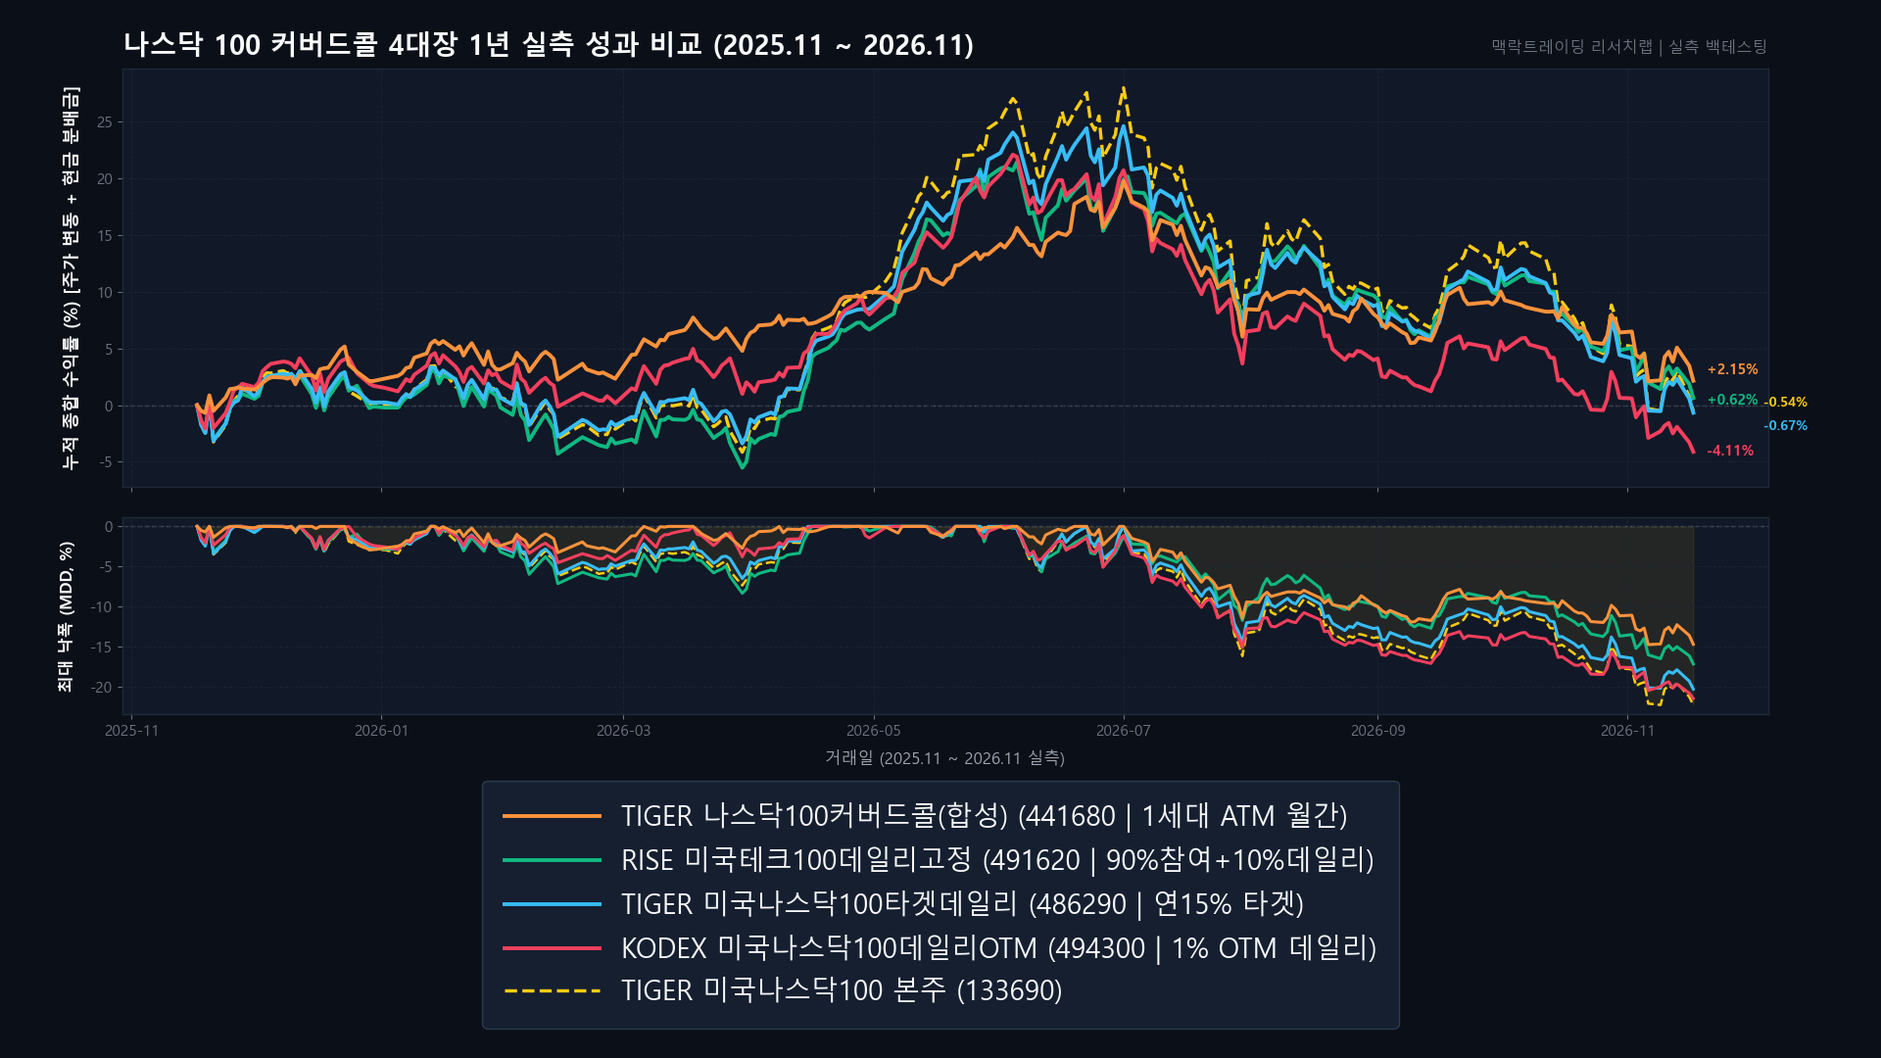
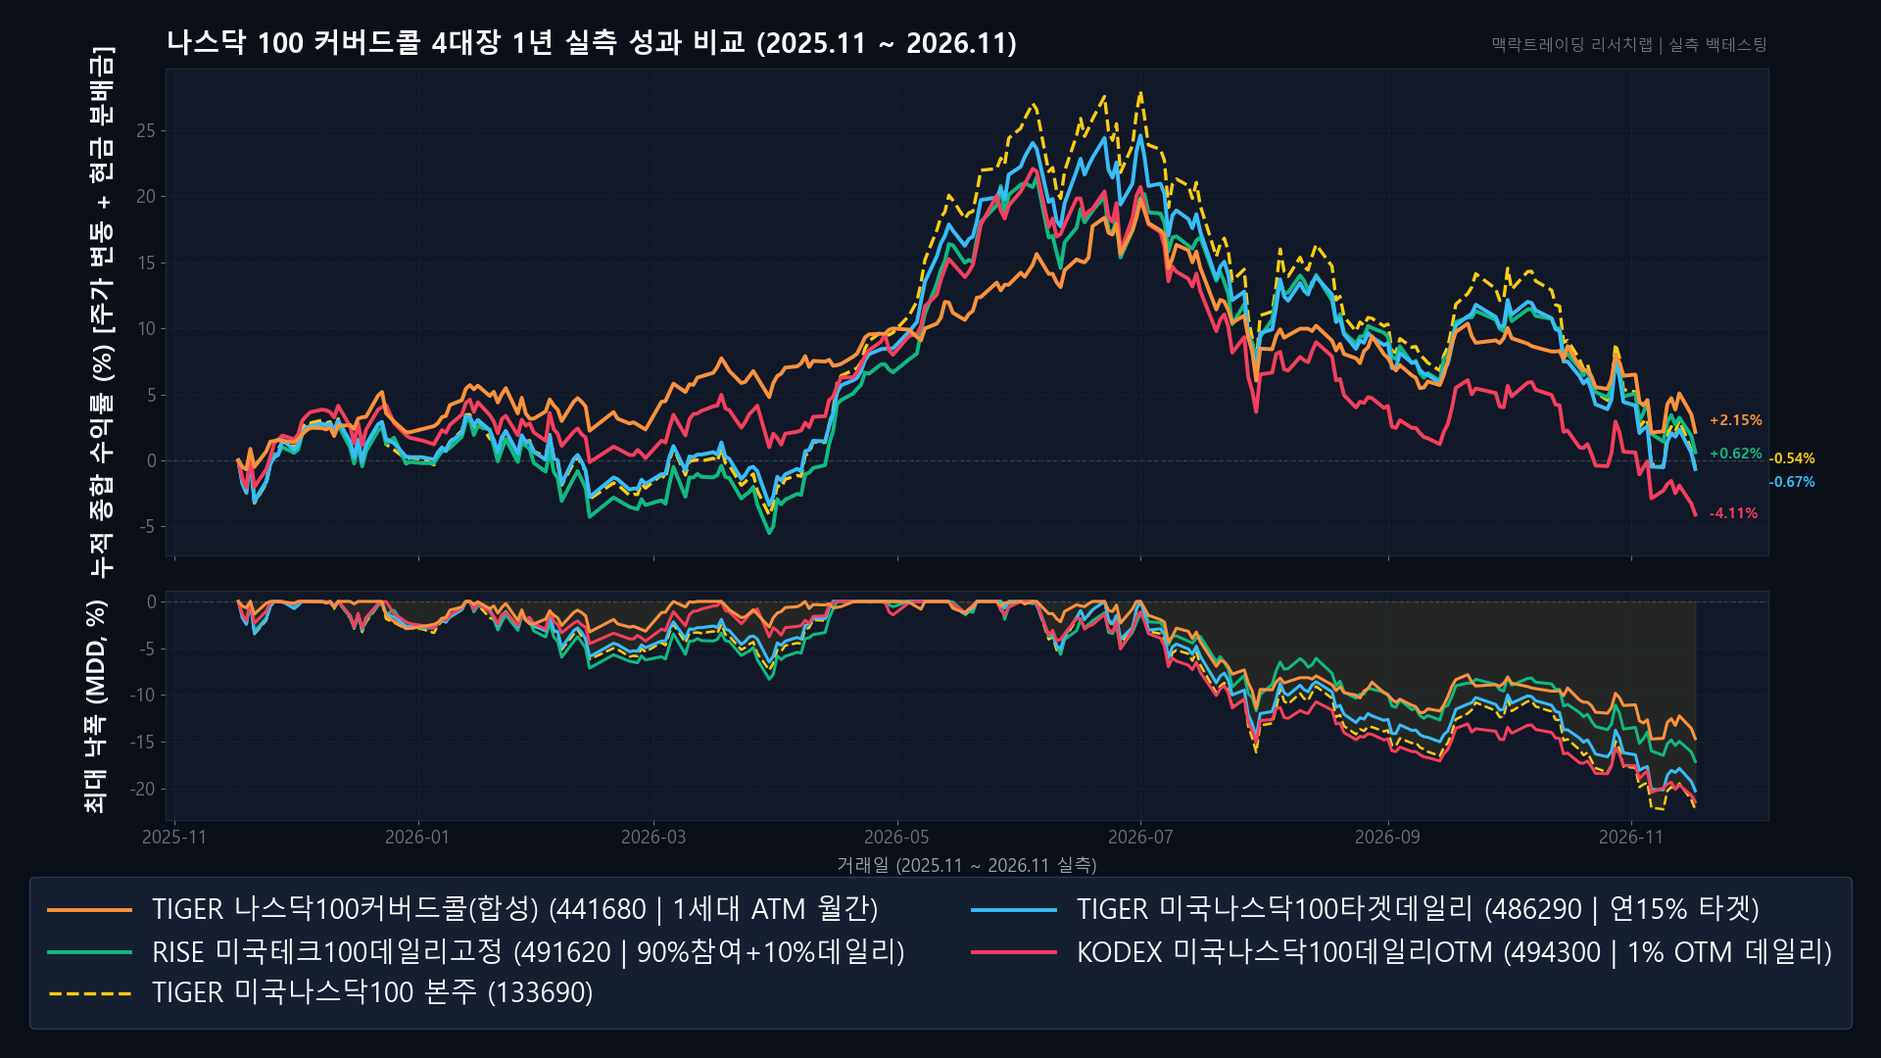
feat(post & chart): add reinvestment comparison set, unify graph/table section, apply 3-row legend and enlarged y-labels

diff --git a/_posts/2026-11-18-group01-nasdaq100-covered-call-comparison.md b/_posts/2026-11-18-group01-nasdaq100-covered-call-comparison.md
@@ -6,10 +6,10 @@ category: '커버드콜 분석'
 categories: ['커버드콜 분석']
 tags: [커버드콜, 나스닥100, TIGER미국나스닥100타겟데일리, KODEX미국나스닥100데일리OTM, RISE미국테크100데일리고정, TIGER미국나스닥100커버드콜, 월배당, 백테스팅, 배당투자, 맥락트레이딩]
 author: '맥락트레이딩 리서치팀'
-excerpt: '국내 상장 나스닥 100 초고배당 커버드콜 4종의 1년 및 2년 실측 토탈리턴, 배당락 주가 침식률, 분배금 원금 상쇄력을 1:1 정밀 비교 분석합니다.'
+excerpt: '국내 상장 나스닥 100 초고배당 커버드콜 4종의 1년 실측 토탈리턴, 단순 보유(현금 수령) vs 분배금 전액 재투자 복리 성과, 배당락 주가 침식률을 1:1 정밀 비교 분석합니다.'
 ---
 
-미국 나스닥 100 지수를 기초자산으로 삼으면서 연 12%에서 최대 19%에 달하는 초고배당을 지급하는 커버드콜 ETF들은 국내 개인 투자자들의 월배당 포트폴리오에서 가장 큰 비중(순자산 합산 약 4조 3천억 원)을 차지하고 있습니다. 하지만 데일리 타겟 15%, 1% 외가격(OTM) 데일리, 90% 참여형 데일리고정, 전통 월간 ATM(등가격) 매도 등 상품마다 내부 옵션 설계 구조가 완전히 다릅니다. 최근 1년간의 실측 백테스팅 데이터를 통해 상승장 참여율 격차와 원금 잠식 실체를 객관적으로 대조해 보았습니다.
+미국 나스닥 100 지수를 기초자산으로 삼으면서 연 12%에서 최대 19%에 달하는 초고배당을 지급하는 커버드콜 ETF들은 국내 개인 투자자들의 월배당 포트폴리오에서 가장 큰 비중(순자산 합산 약 4조 3천억 원)을 차지하고 있습니다. 하지만 데일리 타겟 15%, 1% 외가격(OTM) 데일리, 90% 참여형 데일리고정, 전통 월간 ATM(등가격) 매도 등 상품마다 내부 옵션 설계 구조가 완전히 다릅니다. 최근 1년간의 실측 백테스팅 데이터를 통해 상승장 참여율 격차와 원금 잠식 실체, 그리고 **현금 수령(단순 보유) vs 분배금 전액 재투자(복리 롤링)**의 결정적 차이를 객관적으로 대조해 보았습니다.
 
 ## 1. ETF 기본 정보
 
@@ -32,19 +32,21 @@ excerpt: '국내 상장 나스닥 100 초고배당 커버드콜 4종의 1년 및
 
 ---
 
-## 2. 성과 그래프
+## 2. 1년 실측 성과 비교 분석 (그래프 & 요약 테이블)
 
-![나스닥 100 커버드콜 4대장 1년 실측 성과 비교 차트](/assets/img/posts/group01_nasdaq100_covered_call_comparison_v2.png)
-
-> 💡 **차트 확인 포인트**: 상단 그래프의 실선들은 순수 주가에 실제로 계좌로 입금된 현금 분배금을 모두 합산한 '총자산(Hold Total Return)' 추이입니다. 나스닥 본주가 연간 -0.54%로 횡보한 진폭 장세에서 옵션 구조별로 최종 수익률이 어떻게 엇갈렸는지 확인할 수 있습니다.
-
----
-
-## 3. 성과 요약 테이블
+투자자가 월배당 커버드콜을 운용할 때 마주하는 가장 근본적인 두 가지 방식—**① 분배금을 현금으로 인출하여 보유하는 경우(Hold)**와 **② 분배금을 단 1원도 인출하지 않고 지급 당일 전액 주식으로 재매수하는 경우(Reinvest)**—를 1:1 맞대결로 실측하였습니다.
 
 - **분석 기간**: 2025-11-17 ~ 2026-11-17 (1Y, 245거래일 동기화 실측)
 - **초기 투자 원금**: 10,000,000원
 - **적용 배당소득세율**: 0.0% (비과세/절세계좌 기준)
+
+### ① [세트 1] 단순 보유(Hold) 실측 성과: 주가 변동 + 현금 분배금 수령
+
+첫 번째 세트는 투자자가 매월 통장에 입금된 분배금을 현금으로 수취하여 보관하고, 주가 평가액과 현금 누적액을 합산하여 최종 총자산을 측정한 실측 결과입니다.
+
+![나스닥 100 커버드콜 4대장 1년 실측 성과 비교 차트 (단순 보유)](/assets/img/posts/group01_nasdaq100_covered_call_comparison_v2.png)
+
+> 💡 **단순 보유 차트 포인트**: 상단 그래프의 실선들은 순수 주가에 실제로 계좌로 입금된 현금 분배금을 모두 합산한 '총자산(Hold Total Return)' 추이입니다. 나스닥 본주가 연간 -0.54%로 횡보한 진폭 장세에서 두터운 외재가치 프리미엄을 현금으로 챙긴 상품들이 원금 방어력을 발휘했습니다.
 
 | 전략 / 종목명 | 초기 원금 | 최종 주식<br>평가액 | 순수 주가<br>변동률 | 누적 수령 분배금<br>(현금) | 최종 총자산<br>(Hold 기준) | 최종 종합 수익률<br>(Total Return) | CAGR<br>(연평균 복리) | MDD<br>(최대 낙폭) | 샤프 지수<br>(Sharpe) |
 |:---|---:|---:|---:|---:|---:|---:|---:|---:|---:|
@@ -56,19 +58,37 @@ excerpt: '국내 상장 나스닥 100 초고배당 커버드콜 4종의 1년 및
 
 ---
 
-## 4. 심층 성과 분석 및 구조 해부
+### ② [세트 2] 분배금 재투자(Reinvest) 실측 성과: 전액 재투자 복리 롤링
+
+두 번째 세트는 수령한 모든 분배금을 인출하지 않고, 분배금 지급 당일 종가로 해당 커버드콜 주식을 즉시 추가 매수하여 보유 주식 수량을 늘려나가는 복리 재투자(Total Return) 시뮬레이션 결과입니다.
+
+![나스닥 100 커버드콜 4대장 분배금 재투자 복리 성과 비교 차트](/assets/img/posts/group01_nasdaq100_reinvest_comparison_v2.png)
+
+> 💡 **재투자 차트 포인트**: 분배금을 해당 ETF에 기계적으로 재투자했을 때의 실측 누적 자산 곡선입니다. 주가가 횡보·하락하는 국면에서는 배당락 침식이 누적된 주식을 재매수하게 되면서 '물타기 자금'마저 추가 하락에 노출되어, 단순 현금 보유보다 종합 수익률이 하락하는 **역복리 드래그(Reverse Compounding Drag)** 현상이 발생합니다.
+
+| 전략 / 종목명 | 초기 원금 | 최종 총자산<br>(재투자 기준) | 최종 종합 수익률<br>(Total Return) | CAGR<br>(연평균 복리) | MDD<br>(최대 낙폭) | 샤프 지수<br>(Sharpe) | 단순 보유 대비<br>수익률 격차 |
+|:---|---:|---:|---:|---:|---:|---:|:---:|
+| **TIGER 미국나스닥100커버드콜(합성) (441680)** | 10,000,000원 | 10,148,896원 | **+1.49%** | +1.49% | -16.05% | -0.04 | -0.66%p |
+| **RISE 미국테크100데일리고정 (491620)** | 10,000,000원 | 9,924,858원 | **-0.75%** | -0.75% | -19.72% | -0.10 | -1.37%p |
+| **TIGER 미국나스닥100타겟데일리 (486290)** | 10,000,000원 | 9,812,176원 | **-1.88%** | -1.88% | -22.49% | -0.16 | -1.21%p |
+| **KODEX 미국나스닥100데일리OTM (494300)** | 10,000,000원 | 9,368,569원 | **-6.31%** | -6.32% | -24.57% | -0.45 | **-2.20%p** |
+| <strong style="color: #F59E0B;">비교 대상 본주 (TIGER 미국나스닥100, 133690)</strong> | 10,000,000원 | 9,945,607원 | **-0.54%** | -0.54% | -22.29% | -0.08 | 0.00%p |
+
+---
+
+## 3. 심층 성과 분석 및 옵션 구조 해부
 
 ### ① 1세대 ATM 월간 커버드콜(441680)의 횡보장 완충력과 장기 랠리 페널티
-지난 1년간 실측 결과에서 가장 돋보이는 대목은 순수 100% ATM(등가격) 매도 방식을 취하는 1세대 TIGER 미국나스닥100커버드콜(합성)이 **+2.15%**로 4개 종목 중 가장 높은 종합 수익률을 기록했다는 사실입니다. 
+지난 1년간 실측 결과에서 가장 돋보이는 대목은 순수 100% ATM(등가격) 매도 방식을 취하는 1세대 TIGER 미국나스닥100커버드콜(합성)이 단순 보유 기준 **+2.15%**, 재투자 기준에서도 **+1.49%**로 4개 종목 중 유일하게 두 방식 모두에서 플러스 수익률을 사수했다는 사실입니다. 
 
-나스닥 100 본주가 -0.54%로 소폭 하락하며 방향성 없이 출렁인 횡보 국면에서, 등가격 옵션의 두터운 외재가치 프리미엄이 주가 하락 시 완충재 역할을 충실히 수행했습니다. 배당락에 따른 순수 주가 하락폭도 **-10.11%**에 그쳐 다른 데일리 커버드콜 상품들(-15%~-23%)보다 주가 방어력이 우수했으며, 최대 낙폭(MDD) 역시 **-14.74%**로 본주(-22.29%) 대비 7.55%p 낮은 변동성을 나타냈습니다.
+나스닥 100 본주가 -0.54%로 소폭 하락하며 방향성 없이 출렁인 횡보 국면에서, 등가격 옵션의 두터운 외재가치 프리미엄이 주가 하락 시 완충재 역할을 충실히 수행했습니다. 배당락에 따른 순수 주가 하락폭도 **-10.11%**에 그쳐 다른 데일리 커버드콜 상품들(-15%~-23%)보다 주가 방어력이 우수했으며, 최대 낙폭(MDD) 역시 **-14.74%**(재투자 시 -16.05%)로 본주(-22.29%) 대비 현저히 낮은 변동성을 나타냈습니다.
 
 하지만 이 결과를 두고 1세대 ATM 커버드콜이 모든 국면에서 우월하다고 해석하는 것은 구조적 착시입니다. 공통 상장일(2024년 10월 22일)부터 2026년 11월 17일까지 약 2년간의 누적 성과를 넓혀보면, 나스닥 100 본주가 **+30.58%** 급등하는 랠리 국면에서 441680의 누적 수익률은 **+16.41%**에 그쳤습니다. 매월 초 상방이 0%로 잠기는 구조 탓에 지수 폭등 시 자본 차익을 흡수하지 못하는 '상방 캡(Cap) 페널티'가 장기 계좌 수익률을 절반 가까이 깎아내린 셈입니다.
 
 ### ② 90% 참여형 데일리고정(491620)의 균형 잡힌 주가 복원력과 랠리 적응력
 RISE 미국테크100데일리고정커버드콜은 자산의 90%를 나스닥 100 지수에 노출하고 나머지 10% 비중으로만 데일리 콜옵션을 매도하는 차별화된 설계를 취하고 있습니다.
 
-1년 실측 데이터에서 이 상품은 **1,909,414원(19.09%)**이라는 최상위권의 현금 분배금을 투자자 통장에 안겨주면서도 종합 수익률 **+0.62%**를 달성하여 본주(-0.54%)를 앞질렀습니다. 90%의 주가 참여율 덕분에 지수 반등 국면에서 상방 캡에 덜 묶였으며, 배당락 주가 하락(-18.47%)을 풍부한 분배금(19.09%)이 온전히 방어했습니다.
+1년 단순 보유 실측 데이터에서 이 상품은 **1,909,414원(19.09%)**이라는 최상위권의 현금 분배금을 투자자 통장에 안겨주면서도 종합 수익률 **+0.62%**를 달성하여 본주(-0.54%)를 앞질렀습니다. 90%의 주가 참여율 덕분에 지수 반등 국면에서 상방 캡에 덜 묶였으며, 배당락 주가 하락(-18.47%)을 풍부한 분배금(19.09%)이 온전히 방어했습니다.
 
 이 설계의 진가는 2년 장기 랠리 실측에서 입증됩니다. 본주가 +30.58% 상승하는 동안 RISE는 **+26.45%**의 누적 수익률을 기록했습니다. 본주 상승분의 86.5%를 추종하면서도 2년간 무려 **4,016,917원(40.17%)**의 현금을 지급해, 자본 보존과 인컴 수취를 동시에 잡았습니다.
 
@@ -80,13 +100,24 @@ RISE 미국테크100데일리고정커버드콜은 자산의 90%를 나스닥 10
 2년 누적 성과에서도 **+24.80%**를 기록하여 RISE(26.45%)와 함께 최상위권 자본 성장률을 나타냈습니다. 변동성에 따라 매일 콜옵션 매도 비중을 동적으로 조절하여 불필요한 옵션 비용을 억제한 알고리즘의 안정성이 확인됩니다.
 
 ### ④ 1% OTM 데일리(494300)의 상방 비대칭 침식 원인 해부
-반면 매일 1% 외가격 콜옵션을 기계적으로 매도하는 KODEX 미국나스닥100데일리커버드콜OTM은 1년 실측에서 4개 종목 중 가장 큰 마이너스 종합 수익률(**-4.11%**)을 기록했습니다.
+반면 매일 1% 외가격 콜옵션을 기계적으로 매도하는 KODEX 미국나스닥100데일리커버드콜OTM은 1년 실측에서 4개 종목 중 가장 큰 마이너스 종합 수익률(단순 보유 **-4.11%**, 재투자 **-6.31%**)을 기록했습니다.
 
 투자자에게 지급된 현금 분배금은 **1,943,109원(19.43%)**으로 가장 많았으나, 순수 주가가 **-23.54%**나 깎여나가며 원금 손실을 발생시켰습니다. 분배금으로 주가 하락분을 메운 비율이 82.5%에 그쳐 실질적인 원금 잠식(ROC) 현상이 나타났습니다. 2년 누적 성과 역시 **+14.34%**로 4개 종목 중 최하위에 머물렀습니다.
 
 이러한 언더퍼폼의 원인은 나스닥 100 지수의 일간 급등락 특성과 1% 고정 OTM의 비대칭 구조에서 비롯됩니다. 미국 기술주 시장에서는 CPI 지표나 빅테크 실적 발표 당일 지수가 하루에 +2%~+3% 이상 단기 폭등하는 날이 자주 발생합니다. 이 경우 1%를 초과하는 일간 상승분이 모두 잘려나가 상방 회복이 제한됩니다. 반대로 지수가 -2%~-3% 급락하는 날에는 하락폭을 100% 그대로 반영하기 때문에, 계단식 주가 침식이 누적되어 배당금을 합산하더라도 총자산이 깎여나가는 결과를 낳았습니다.
 
-### ⑤ 시장 국면별 적합도 비교 (Market Regime Fit)
+### ⑤ 단순 보유 vs 분배금 재투자: 왜 재투자가 오히려 성과를 갉아먹었는가? (역복리 드래그 현상)
+이번 백테스팅의 가장 중요한 학술적 발견은 **모든 커버드콜 종목에서 분배금을 재투자했을 때의 성과가 단순 현금 보유보다 0.66%p ~ 2.20%p 더 낮아졌다**는 점입니다.
+
+일반적인 주식이나 성장형 ETF에서는 배당금을 재투자할 때 '복리(Compounding)의 마법'이 발생하여 총자산이 비약적으로 증가합니다. 하지만 지난 1년처럼 지수가 횡보(-0.54%)하거나 진폭을 겪는 국면에서 초고배당 커버드콜을 재투자하면 정반대의 **'역복리 드래그(Reverse Compounding Drag)'**가 작동합니다:
+
+1. **배당락 침식 주식의 지속 매수**: 커버드콜 주가는 매월 고배당(연 12~19%) 지급으로 인해 필연적으로 순자산가치(NAV)가 계단식으로 낮아집니다. 분배금을 재투자한다는 것은 이처럼 주가가 우하향 곡선을 그리는 자산을 지속해서 추가 매수(물타기)하는 행위가 됩니다.
+2. **현금의 변동성 완충 기능 소멸**: 단순 보유 시에는 수령한 분배금이 '현금(변동성 0%)'으로 확정되어 계좌 전체의 하락을 방어해 주는 쿠션 역할을 했습니다. 그러나 재투자를 하는 순간 이 안전 자산이 다시 위험 자산(주식)으로 전환되어 시장 하락 파동과 추가 배당락에 고스란히 노출되었습니다.
+3. **상방 캡으로 인한 복리 회복력 거세**: 주가가 빠진 상태에서 수량을 늘렸다면 이후 폭등장에서 큰 복리 이익을 거두어야 하지만, 커버드콜은 콜옵션 매도로 인해 상방이 닫혀 있습니다. 주가 반등 시 자본 차익을 누리지 못하므로 수량이 늘어난 효과를 제대로 회수하지 못했습니다.
+
+특히 1% 고정 OTM(494300)의 경우, 배당락 침식이 가장 심했던 탓에 재투자 시 최종 손실률이 -4.11%에서 **-6.31%**로 무려 2.20%p나 확대되었습니다. 반면 변동성 방어력이 높았던 TIGER 합성(441680)은 재투자 시에도 **+1.49%**를 기록하여, 옵션 구조의 방어력이 역복리 드래그 환경에서도 핵심 승부처임을 증명했습니다.
+
+### ⑥ 시장 국면별 적합도 비교 (Market Regime Fit)
 
 | 시장 국면 | TIGER 타겟데일리 (486290) | KODEX 데일리OTM (494300) | RISE 데일리고정 (491620) | TIGER 합성 ATM (441680) |
 |:---|:---:|:---:|:---:|:---:|
@@ -101,15 +132,18 @@ RISE 미국테크100데일리고정커버드콜은 자산의 90%를 나스닥 10
 
 ---
 
-## 5. 최종 투자 전략 총평
+## 4. 최종 투자 전략 총평: 인컴 인출 vs 재투자 복리의 올바른 선택
 
-동일하게 '나스닥 100 커버드콜'이라는 간판을 달고 있더라도, 세부 옵션 구조에 따라 1년간의 계좌 성적표는 +2%의 실질 이익부터 -4%의 원금 손실까지 뚜렷한 격차를 보였습니다.
+동일하게 '나스닥 100 커버드콜'이라는 간판을 달고 있더라도, 세부 옵션 구조와 분배금 운용 방식에 따라 1년간의 계좌 성적표는 +2%의 실질 이익부터 -6%의 원금 손실까지 뚜렷한 격차를 보였습니다.
 
-정기적인 현금 흐름 인출이 절대적인 은퇴자라면 15% 수준의 타겟 프리미엄으로 원금을 보전하면서 월배당을 수취하는 **TIGER 타겟데일리(486290)**나 횡보장 방어력이 검증된 **TIGER 합성(441680)**이 안정적인 선택지가 될 수 있습니다. 
+실측 데이터가 증명하는 핵심 결론은 **"월배당 초고배당 커버드콜은 무조건 같은 상품에 기계적으로 재투자하는 것이 최선이 아니다"**라는 사실입니다.
 
-반면 연금저축이나 개인형 IRP, ISA 계좌에서 인컴을 재투자하며 장기 복리 효과를 노리는 투자자라면, 기술주의 대세 상승을 놓치지 않도록 90% 참여율을 보장하는 **RISE 데일리고정(491620)**을 핵심 축으로 삼는 전략이 합리적입니다. 
-
-자신의 투자 목표가 '당장 쓸 수 있는 현금 인출'인지, 아니면 '배당과 주가 성장의 균형'인지 명확한 기준을 세우고 상품의 세부 옵션 규격을 확인하는 자세가 요구됩니다.
+1. **생활비·인컴 인출이 목적인 은퇴자 (단순 보유 전략)**: 
+   - 매월 지급되는 분배금을 현금으로 인출하여 생활비로 사용하거나 단기 파킹통장(MMF)에 보관하는 투자자에게는 15% 수준의 타겟 프리미엄으로 원금을 보전하는 **TIGER 타겟데일리(486290)**나 횡보장 방어력이 검증된 **TIGER 합성(441680)**이 가장 안정적인 현금 파이프라인이 됩니다.
+2. **연금저축/IRP/ISA 계좌에서 자산을 불려가는 투자자 (재투자 전략)**: 
+   - 장기 복리 효과를 노린다면 배당락 침식이 큰 고배당 커버드콜에 재투자하기보다는, 지수 상승 참여율을 90% 열어둔 **RISE 데일리고정(491620)**을 매수하거나, **수령한 인컴으로 기초자산 본주(TIGER 미국나스닥100, 133690)를 교차 매수**하는 전략이 상방 복리 회복력을 극대화하는 현명한 대안이 됩니다.
+3. **상품 구조 점검의 중요성**:
+   - 표면적인 연환산 분배율(19%)의 착시에 현혹되지 않고, 일간 상방 제한(1% OTM 고정)이 초래하는 비대칭 손익 구조를 사전에 파악하여 포트폴리오의 영구적 원금 훼손을 방지해야 합니다.
 
 ---
 
@@ -117,4 +151,4 @@ RISE 미국테크100데일리고정커버드콜은 자산의 90%를 나스닥 10
   ※ 본 포스팅은 특정 금융상품에 대한 매수·매도 추천이나 투자 권유가 아니며, ETF 상품의 구조와 과거 실측 백테스팅 데이터를 객관적으로 분석한 학술·정보 제공용 콘텐츠입니다. 과거의 운용 성과가 미래의 수익을 보장하지 않으며, 모든 투자에 대한 최종 판단과 손실 위험의 책임은 투자자 본인에게 있습니다.
 </div>
 
-<div class="post-tags"><span class="tag-item">#ETF</span> <span class="tag-item">#커버드콜</span> <span class="tag-item">#나스닥100</span> <span class="tag-item">#TIGER미국나스닥100타겟데일리</span> <span class="tag-item">#KODEX미국나스닥100데일리OTM</span> <span class="tag-item">#RISE미국테크100데일리고정</span> <span class="tag-item">#TIGER미국나스닥100커버드콜</span> <span class="tag-item">#월배당</span> <span class="tag-item">#배당수익률</span> <span class="tag-item">#실측백테스팅</span> <span class="tag-item">#맥락트레이딩</span></div>
+<div class="post-tags"><span class="tag-item">#ETF</span> <span class="tag-item">#커버드콜</span> <span class="tag-item">#나스닥100</span> <span class="tag-item">#TIGER미국나스닥100타겟데일리</span> <span class="tag-item">#KODEX미국나스닥100데일리OTM</span> <span class="tag-item">#RISE미국테크100데일리고정</span> <span class="tag-item">#TIGER미국나스닥100커버드콜</span> <span class="tag-item">#월배당</span> <span class="tag-item">#배당재투자</span> <span class="tag-item">#실측백테스팅</span> <span class="tag-item">#맥락트레이딩</span></div>
